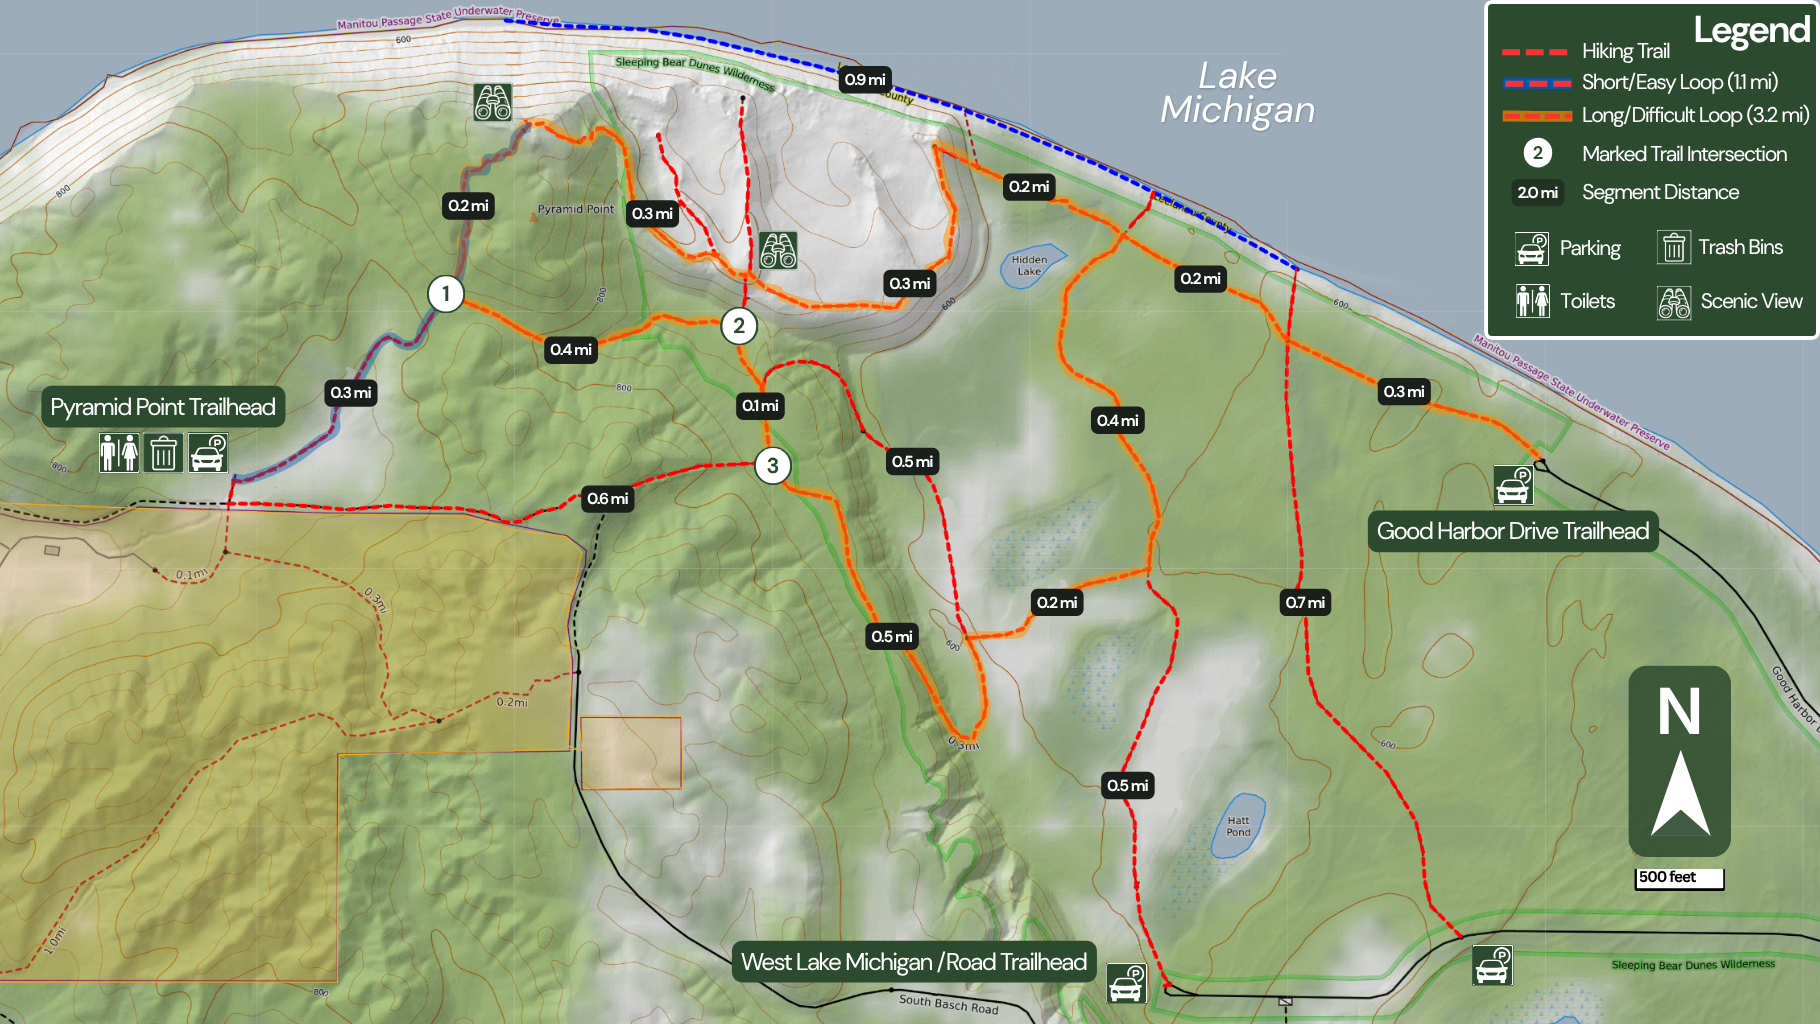
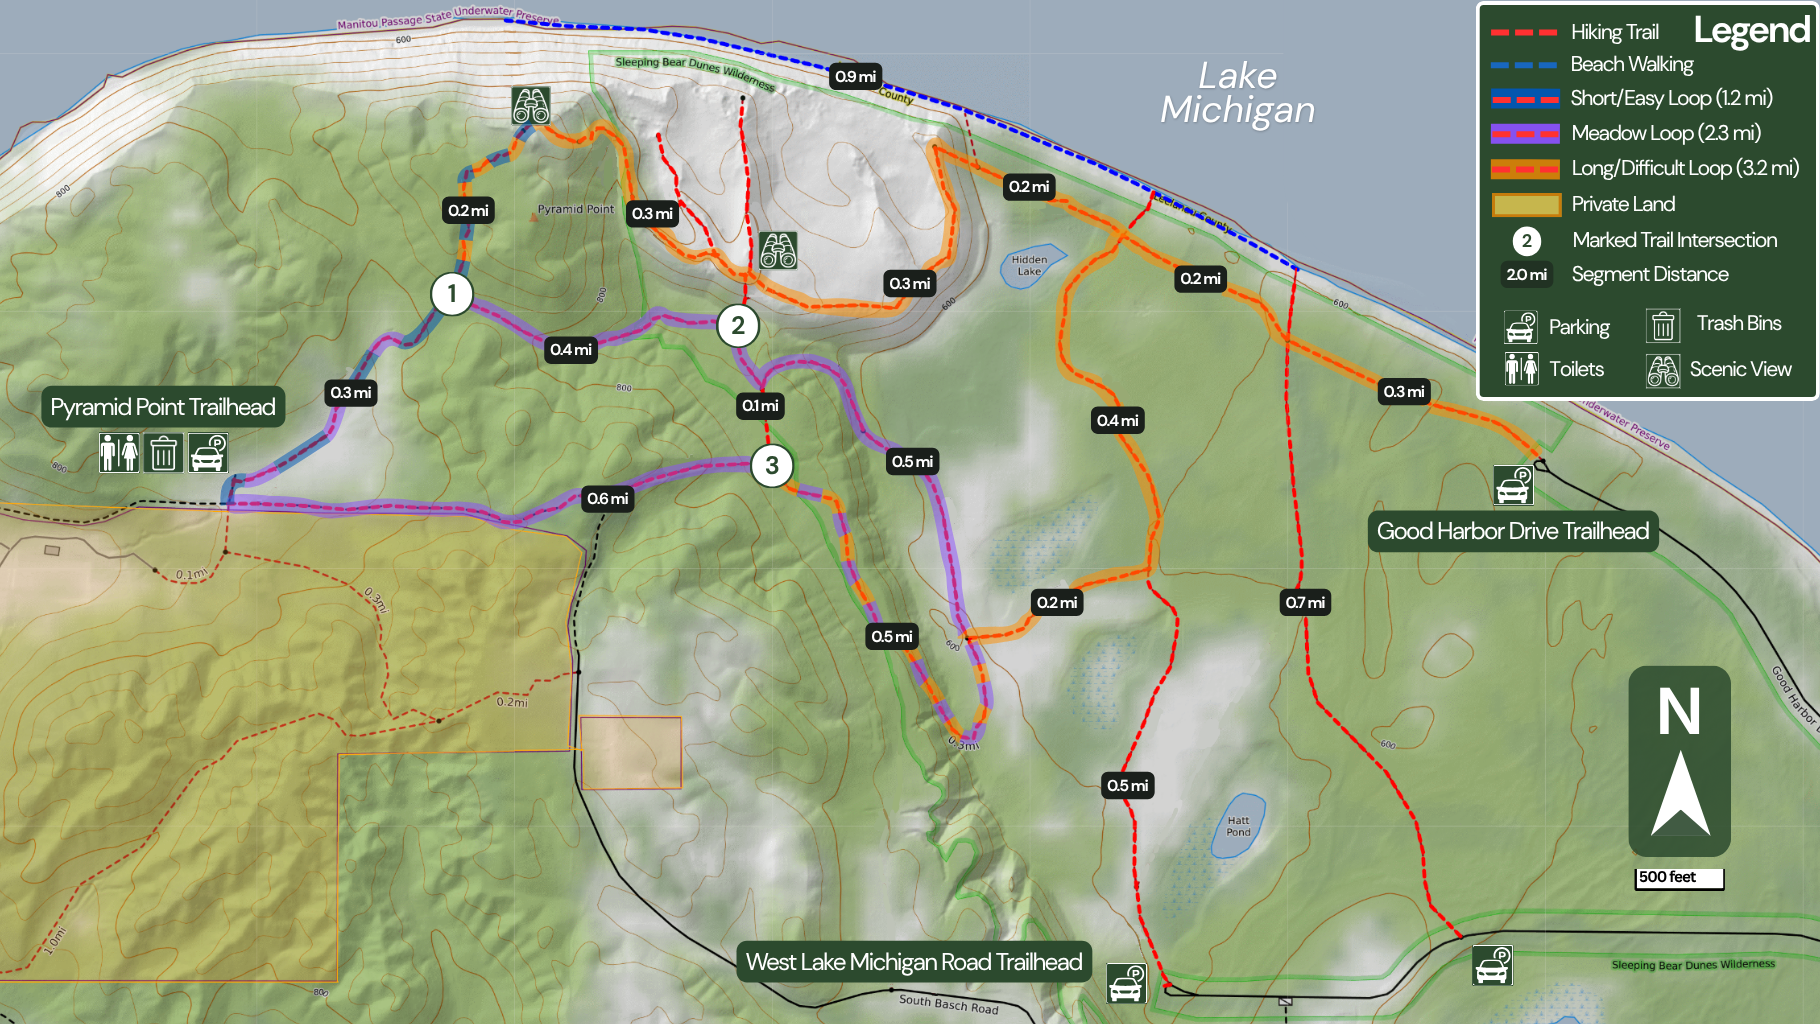
Update pyramid point map and copy

diff --git a/src/data/guides/pyramid-point.ts b/src/data/guides/pyramid-point.ts
@@ -44,14 +44,26 @@ export const pyramidPointGuide: TrailGuide = {
   activities: ["hiking", "backpacking", "hunting", "wildlife-viewing", "pets"],
   sections: [
     {
-      heading: "The Point",
+      heading: "Area Overview",
       body: 'Pyramid Point sits inside the Port Oneida Rural Historic District, the largest intact historic farming landscape held in public ownership in the country. The Miller family farmed this ground for years, raising five daughters in a hand-hewn log home near the start of the trail. One of them, Mary, stayed on alone after her parents died and built a small shack further up the trail rather than leave. Farming this glacially scoured, nutrient-poor ground was never easy, but families here got by on wheat, rye, oats, corn, and a few dairy cows and hogs.\n\nFrom the main overlook, on a clear day you can pick out four islands: South Manitou to the west, North Manitou almost directly north, and South and North Fox Island further northeast. Between here and North Manitou you\'ll spot a small white structure that looks like a sail from a distance, locals call it "the Crib," a decommissioned lighthouse now owned and maintained by a nonprofit.\n\nThe National Park Service requests that visitors do not descend the dune to the water to prevent further erosion. The dune is also much steeper and taller than it looks from the top and the return climb up is difficult. If you want to hike to the base of the dune, walk along the shoreline from Good Harbor Beach instead. The shoreline is very rocky, so be sure to bring shoes if you choose to traverse it.',
       image: "/images/pyramid-point/pyramid-point-dunes.webp",
       imageAlt: "Overlook view toward the islands from Pyramid Point",
     },
     {
-      heading: "Suggested Long Route",
-      body: `The loop I recommend is 3.2 miles and can be started from any of the three trailheads listed. This loop is not listed on AllTrails, and uses official but rarely-used trails that are challenging to find. For this reason, this loop is only recommended for experienced hikers with route finding confidence. I recommend starting from the Good Harbor Drive trailhead and doing the loop clockwise, as it saves the most scenic portions for last and the steepest hills as descents.
+      heading: "Short Route - Pyramid Point Overlook",
+      body: "If you just want the view, you don't need to hike the whole loop. A popular and very well-marked trail ascends 223 feet from the Pyramid Point Trailhead 0.6 miles to the main overlook. You'll follow the same trail down, making for a round trip of roughly 1.2 miles with all of the climbing during the first half. This route is highlighted in blue on the map.",
+      image: "/images/pyramid-point/pyramid-point-overlook.webp",
+      imageAlt: "The short overlook trail to Pyramid Point",
+    },
+    {
+      heading: "Medium Route - The Meadow Loop",
+      body: "The Meadow Loop is a 2.3-mile-long route that navigates the forests and meadow south of Pyramid Point. It is well-marked and connects trail markers 1, 2, and 3 before finishing with a short road walk back to the parking area. With 438 feet of ascent/descent across variable terrain, this route should be considered moderate if not difficult. Some of it is well-maintained, some of it is sandy and steep enough that the climb back up from the meadows can be challenging for some hikers. A few stretches of trail might be overgrown between trail crew visits. The additional challenge of this loop results in less traffic, lending to higher chances of seeing wildlife.",
+      image: "/images/pyramid-point/pyramid-point-meadow-loop.webp",
+      imageAlt: "The Meadow Loop trail near Pyramid Point",
+    },
+    {
+      heading: "Challenging Route - Pyramid Point Tour",
+      body: `The loop I prefer is 3.24 miles and can be started from any of the three trailheads listed. This loop is not listed on AllTrails, and uses official but rarely-used trails that are challenging to find. For this reason, this loop is only recommended for experienced hikers with route finding confidence. I recommend starting from the Good Harbor Drive Trailhead, or West Lake Michigan Road Trailhead, and doing the loop clockwise, as it saves the most scenic portions for last and the steepest hills as descents.
 
 Carefully review the details below against the map, as many of these trails are not marked.
 
@@ -66,12 +78,6 @@ The trail along the rim leads back to an overlook of Lake Michigan. To your righ
       imageAlt: "The hard-to-spot connector trail junction",
     },
     {
-      heading: "Suggested Short Route",
-      body: "If you just want the view, you don't need the whole loop. A popular and very well-marked trail ascends from the Pyramid Point Trailhead 0.6 miles up to the main overlook. You'll follow the same trail down, making for a round trip of roughly 1.2 miles with all of the climbing during the first half. That's the version most people do, and it's enough to see the islands and the Crib without the extra mileage.",
-      image: "/images/pyramid-point/pyramid-point-overlook.webp",
-      imageAlt: "The short overlook trail to Pyramid Point",
-    },
-    {
       heading: "Wildlife and What You Might See",
       body: "This stretch sees more wildlife activity than its popularity would suggest. I observed a resident red-tailed hawk hunting the dunes just east of the point two-days in a row, and spotted a barred owl and white-tailed deer in the forest near the ponds south of Hidden Lake. Milkweed grows thick through here too, which attracts monarch butterflies for a good portion of the summer. Expect wildflowers in the meadows through spring and summer, strong color in fall, and light use for snowshoeing in winter.",
       image: "/images/pyramid-point/pyramid-point-monarch.webp",
@@ -83,6 +89,7 @@ The trail along the rim leads back to an overlook of Lake Michigan. To your righ
     "Do not descend the dune to Lake Michigan. It's farther and steeper than it looks, the clay base is slick when wet, and this bluff is already heavily eroded.",
     "Mountain bikes are not permitted on any National Park Service trail here.",
     "Dogs are allowed on a leash no longer than 6 feet.",
+    "Ticks carrying lyme disease are present in this area, especially in tall grass. Wear appropriate clothing and do a thorough tick check after your hike.",
     "Stay on the marked trail, even where unofficial social trails look tempting — this dune ecosystem is fragile and slow to recover.",
     "Hunting is allowed in this area, so be sure to wear bright orange, especially during deer firearm seasons.",
   ],
@@ -93,6 +100,7 @@ The trail along the rim leads back to an overlook of Lake Michigan. To your righ
     "No speakers or amplified sound, keep voices down out of respect for wildlife and other visitors.",
     'Pack out everything, including food scraps and "biodegradable" waste.',
     "Camping is not permitted along this route.",
+    "Aerial drones are not allowed within National Park boundaries.",
   ],
   managedBy: "National Park Service — Sleeping Bear Dunes National Lakeshore",
   managedByKey: "sleepingBearDunes",
